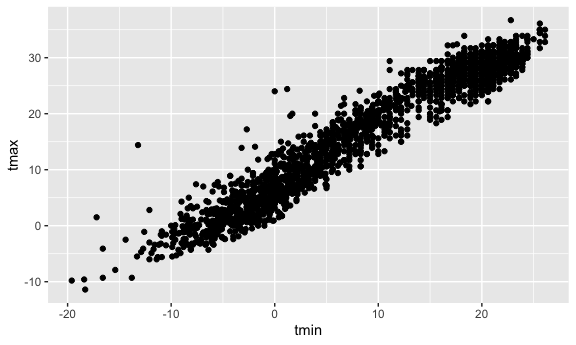
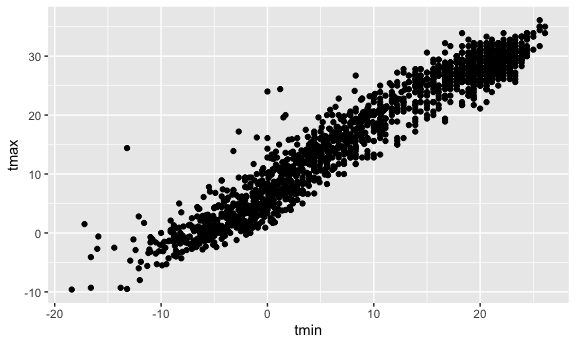
finial commit

diff --git a/vis_part2.md b/vis_part2.md
@@ -18,6 +18,7 @@ library(tidyverse)
 
 ``` r
 library(ggridges)
+library(patchwork)
 
 knitr::opts_chunk$set(
   fig.width = 6,
@@ -33,8 +34,8 @@ weather_df =
   rnoaa::meteo_pull_monitors(
     c("USW00094728", "USW00022534", "USS0023B17S"),
     var = c("PRCP", "TMIN", "TMAX"), 
-    date_min = "2021-01-01",
-    date_max = "2022-12-31") |>
+    date_min = "2022-01-01",
+    date_max = "2023-12-31") |>
   mutate(
     name = recode(
       id, 
@@ -68,20 +69,20 @@ weather_df =
 weather_df
 ```
 
-    ## # A tibble: 2,190 × 6
+    ## # A tibble: 1,914 × 6
     ##    name           id          date        prcp  tmax  tmin
     ##    <chr>          <chr>       <date>     <dbl> <dbl> <dbl>
-    ##  1 CentralPark_NY USW00094728 2021-01-01   157   4.4   0.6
-    ##  2 CentralPark_NY USW00094728 2021-01-02    13  10.6   2.2
-    ##  3 CentralPark_NY USW00094728 2021-01-03    56   3.3   1.1
-    ##  4 CentralPark_NY USW00094728 2021-01-04     5   6.1   1.7
-    ##  5 CentralPark_NY USW00094728 2021-01-05     0   5.6   2.2
-    ##  6 CentralPark_NY USW00094728 2021-01-06     0   5     1.1
-    ##  7 CentralPark_NY USW00094728 2021-01-07     0   5    -1  
-    ##  8 CentralPark_NY USW00094728 2021-01-08     0   2.8  -2.7
-    ##  9 CentralPark_NY USW00094728 2021-01-09     0   2.8  -4.3
-    ## 10 CentralPark_NY USW00094728 2021-01-10     0   5    -1.6
-    ## # ℹ 2,180 more rows
+    ##  1 CentralPark_NY USW00094728 2022-01-01   201  13.3  10  
+    ##  2 CentralPark_NY USW00094728 2022-01-02    10  15     2.8
+    ##  3 CentralPark_NY USW00094728 2022-01-03     0   2.8  -5.5
+    ##  4 CentralPark_NY USW00094728 2022-01-04     0   1.1  -7.1
+    ##  5 CentralPark_NY USW00094728 2022-01-05    58   8.3  -0.5
+    ##  6 CentralPark_NY USW00094728 2022-01-06     0   5     1.1
+    ##  7 CentralPark_NY USW00094728 2022-01-07    97   1.1  -3.8
+    ##  8 CentralPark_NY USW00094728 2022-01-08     0  -1    -6.6
+    ##  9 CentralPark_NY USW00094728 2022-01-09    25   4.4  -1.6
+    ## 10 CentralPark_NY USW00094728 2022-01-10     0   4.4  -4.3
+    ## # ℹ 1,904 more rows
 
 Let’s make a plot!
 
@@ -90,7 +91,7 @@ ggplot(weather_df, aes(x = tmin, y = tmax)) +
   geom_point()
 ```
 
-    ## Warning: Removed 17 rows containing missing values (`geom_point()`).
+    ## Warning: Removed 21 rows containing missing values (`geom_point()`).
 
 <img src="vis_part2_files/figure-gfm/unnamed-chunk-3-1.png" width="90%" />
 
@@ -103,6 +104,8 @@ weather_df |>
   geom_point()
 ```
 
+    ## Warning: Removed 2 rows containing missing values (`geom_point()`).
+
 <img src="vis_part2_files/figure-gfm/unnamed-chunk-4-1.png" width="90%" />
 
 ``` r
@@ -112,6 +115,8 @@ ggp_nyc_weather =
   ggplot(aes(x=tmin, y = tmax)) +
   geom_point()
 ```
+
+This results in a dataframe with 1914 observations on six variables
 
 ## Same plot from last time
 
@@ -128,7 +133,7 @@ weather_df |>
   )
 ```
 
-    ## Warning: Removed 17 rows containing missing values (`geom_point()`).
+    ## Warning: Removed 21 rows containing missing values (`geom_point()`).
 
 <img src="vis_part2_files/figure-gfm/unnamed-chunk-5-1.png" width="90%" />
 
@@ -173,8 +178,221 @@ weather_df |>
   viridis::scale_color_viridis(discrete = TRUE)
 ```
 
-    ## Warning: Removed 17 rows containing missing values (`geom_point()`).
+    ## Warning: Removed 21 rows containing missing values (`geom_point()`).
 
 <img src="vis_part2_files/figure-gfm/unnamed-chunk-7-1.png" width="90%" />
 
 ## Themes
+
+``` r
+weather_df |> 
+  ggplot(aes(x = tmin, y = tmax, color = name)) +
+  geom_point(alpha = .5) +
+  labs(
+    title = "Temperature plot",
+    x = "Min daily temp (Degrees C)",
+    y = "Max daily temp",
+    color = "Location",
+    caption = "Max vs min daily temp in three locations; data from rnoaa"
+  ) +
+  #scale_color_hue(h = c(100, 300))
+  viridis::scale_color_viridis(discrete = TRUE) +
+  theme_minimal() +
+  theme(legend.position = "bottom")
+```
+
+    ## Warning: Removed 21 rows containing missing values (`geom_point()`).
+
+<img src="vis_part2_files/figure-gfm/unnamed-chunk-8-1.png" width="90%" />
+
+## Data argument …
+
+``` r
+weather_df |>
+  ggplot(aes(x = date, y = tmax, color = name)) +
+  geom_point() +
+  geom_smooth()
+```
+
+    ## `geom_smooth()` using method = 'loess' and formula = 'y ~ x'
+
+    ## Warning: Removed 21 rows containing non-finite values (`stat_smooth()`).
+
+    ## Warning: Removed 21 rows containing missing values (`geom_point()`).
+
+<img src="vis_part2_files/figure-gfm/unnamed-chunk-9-1.png" width="90%" />
+
+``` r
+nyc_weather_df =
+  weather_df |>
+  filter(name == "CentralPark_NY")
+
+hawaii_weather_df =
+  weather_df |>
+  filter(name == "Molokai_HI")
+
+ggplot(nyc_weather_df, aes(x = date, y = tmax, color = name)) +
+  geom_point() +
+  geom_line(data = hawaii_weather_df)
+```
+
+    ## Warning: Removed 2 rows containing missing values (`geom_point()`).
+
+    ## Warning: Removed 2 rows containing missing values (`geom_line()`).
+
+<img src="vis_part2_files/figure-gfm/unnamed-chunk-9-2.png" width="90%" />
+
+## `patchwork`
+
+``` r
+weather_df |>
+  ggplot(aes(x = date, y = tmax, color = name)) +
+  geom_point() +
+  facet_grid(.~name)
+```
+
+    ## Warning: Removed 21 rows containing missing values (`geom_point()`).
+
+<img src="vis_part2_files/figure-gfm/unnamed-chunk-10-1.png" width="90%" />
+
+``` r
+tmax_tmin_p = 
+  weather_df |> 
+  ggplot(aes(x = tmax, y = tmin, color = name)) + 
+  geom_point(alpha = .5) +
+  theme(legend.position = "none")
+
+prcp_dens_p = 
+  weather_df |> 
+  filter(prcp > 0) |> 
+  ggplot(aes(x = prcp, fill = name)) + 
+  geom_density(alpha = .5) + 
+  theme(legend.position = "none")
+
+tmax_date_p = 
+  weather_df |> 
+  ggplot(aes(x = date, y = tmax, color = name)) + 
+  geom_point(alpha = .5) +
+  geom_smooth(se = FALSE) + 
+  theme(legend.position = "bottom")
+
+(tmax_tmin_p + prcp_dens_p) / tmax_date_p
+```
+
+    ## Warning: Removed 21 rows containing missing values (`geom_point()`).
+
+    ## `geom_smooth()` using method = 'loess' and formula = 'y ~ x'
+
+    ## Warning: Removed 21 rows containing non-finite values (`stat_smooth()`).
+    ## Removed 21 rows containing missing values (`geom_point()`).
+
+<img src="vis_part2_files/figure-gfm/unnamed-chunk-11-1.png" width="90%" />
+
+## Data manipulation
+
+``` r
+weather_df |>
+  mutate(name = forcats::fct_relevel(name, c("Molokai_HI", "CentralPark_NY", "Waterhole_WA"))) |> 
+  ggplot(aes(x = name, y = tmax)) + 
+  geom_violin(aes(fill = name), color = "blue", alpha = .5) + 
+  theme(legend.position = "bottom")
+```
+
+    ## Warning: Removed 21 rows containing non-finite values (`stat_ydensity()`).
+
+<img src="vis_part2_files/figure-gfm/unnamed-chunk-12-1.png" width="90%" />
+
+``` r
+weather_df |>
+  mutate(name = forcats::fct_reorder(name, tmax)) |> 
+  ggplot(aes(x = name, y = tmax)) + 
+  geom_violin(aes(fill = name), color = "blue", alpha = .5) + 
+  theme(legend.position = "bottom")
+```
+
+    ## Warning: There was 1 warning in `mutate()`.
+    ## ℹ In argument: `name = forcats::fct_reorder(name, tmax)`.
+    ## Caused by warning:
+    ## ! `fct_reorder()` removing 21 missing values.
+    ## ℹ Use `.na_rm = TRUE` to silence this message.
+    ## ℹ Use `.na_rm = FALSE` to preserve NAs.
+    ## Removed 21 rows containing non-finite values (`stat_ydensity()`).
+
+<img src="vis_part2_files/figure-gfm/unnamed-chunk-12-2.png" width="90%" />
+
+## Complicate FAS plot
+
+``` r
+litter_data = 
+  read_csv("data/FAS_litters.csv") |>
+  janitor::clean_names() |>
+  separate(group, into = c("dose", "day_of_tx"), sep = 3)
+```
+
+    ## Rows: 49 Columns: 8
+    ## ── Column specification ────────────────────────────────────────────────────────
+    ## Delimiter: ","
+    ## chr (2): Group, Litter Number
+    ## dbl (6): GD0 weight, GD18 weight, GD of Birth, Pups born alive, Pups dead @ ...
+    ## 
+    ## ℹ Use `spec()` to retrieve the full column specification for this data.
+    ## ℹ Specify the column types or set `show_col_types = FALSE` to quiet this message.
+
+``` r
+pup_data = 
+  read_csv("data/FAS_pups.csv") |>
+  janitor::clean_names() |>
+  mutate(
+    sex = 
+      case_match(
+        sex, 
+        1 ~ "male", 
+        2 ~ "female"))
+```
+
+    ## Rows: 313 Columns: 6
+    ## ── Column specification ────────────────────────────────────────────────────────
+    ## Delimiter: ","
+    ## chr (1): Litter Number
+    ## dbl (5): Sex, PD ears, PD eyes, PD pivot, PD walk
+    ## 
+    ## ℹ Use `spec()` to retrieve the full column specification for this data.
+    ## ℹ Specify the column types or set `show_col_types = FALSE` to quiet this message.
+
+``` r
+fas_data = left_join(pup_data, litter_data, by = "litter_number") 
+fas_data
+```
+
+    ## # A tibble: 313 × 14
+    ##    litter_number sex   pd_ears pd_eyes pd_pivot pd_walk dose  day_of_tx
+    ##    <chr>         <chr>   <dbl>   <dbl>    <dbl>   <dbl> <chr> <chr>    
+    ##  1 #85           male        4      13        7      11 Con   7        
+    ##  2 #85           male        4      13        7      12 Con   7        
+    ##  3 #1/2/95/2     male        5      13        7       9 Con   7        
+    ##  4 #1/2/95/2     male        5      13        8      10 Con   7        
+    ##  5 #5/5/3/83/3-3 male        5      13        8      10 Con   7        
+    ##  6 #5/5/3/83/3-3 male        5      14        6       9 Con   7        
+    ##  7 #5/4/2/95/2   male       NA      14        5       9 Con   7        
+    ##  8 #4/2/95/3-3   male        4      13        6       8 Con   7        
+    ##  9 #4/2/95/3-3   male        4      13        7       9 Con   7        
+    ## 10 #2/2/95/3-2   male        4      NA        8      10 Con   7        
+    ## # ℹ 303 more rows
+    ## # ℹ 6 more variables: gd0_weight <dbl>, gd18_weight <dbl>, gd_of_birth <dbl>,
+    ## #   pups_born_alive <dbl>, pups_dead_birth <dbl>, pups_survive <dbl>
+
+``` r
+fas_data |> 
+  select(dose, day_of_tx, starts_with("pd")) |> 
+  pivot_longer(
+    pd_ears:pd_walk,
+    names_to = "outcome", 
+    values_to = "pn_day") |> 
+  drop_na() |> 
+  mutate(outcome = fct_reorder(outcome, pn_day, median)) |> 
+  ggplot(aes(x = dose, y = pn_day)) + 
+  geom_violin() + 
+  facet_grid(day_of_tx ~ outcome)
+```
+
+<img src="vis_part2_files/figure-gfm/unnamed-chunk-13-1.png" width="90%" />
